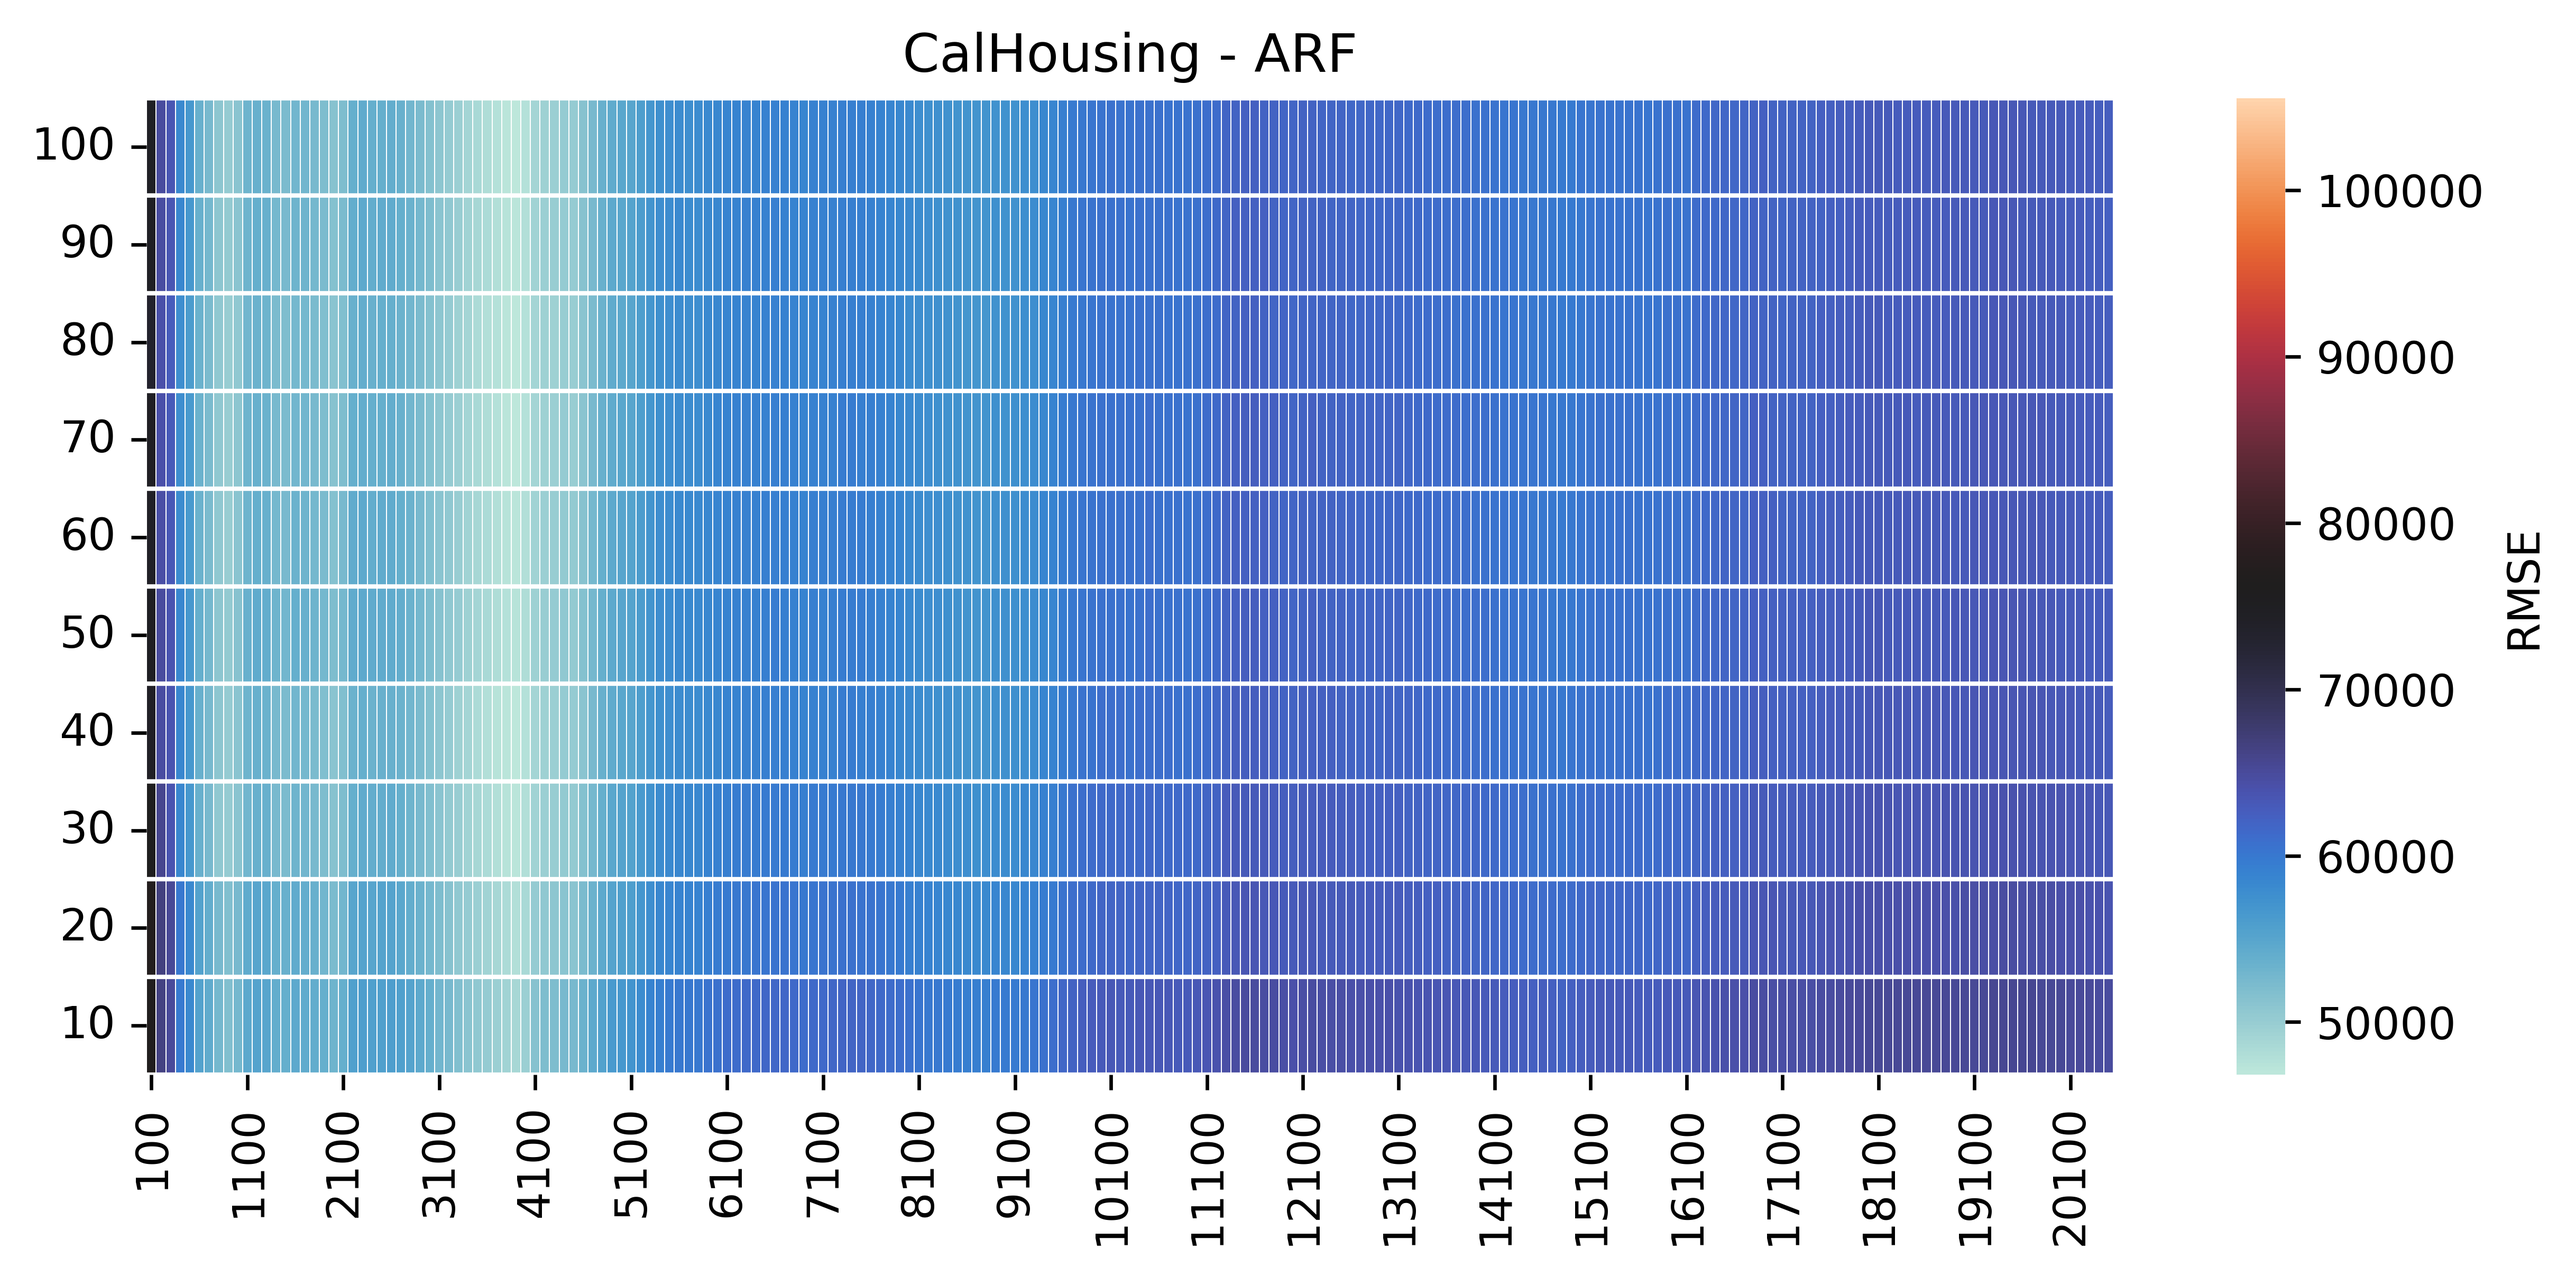
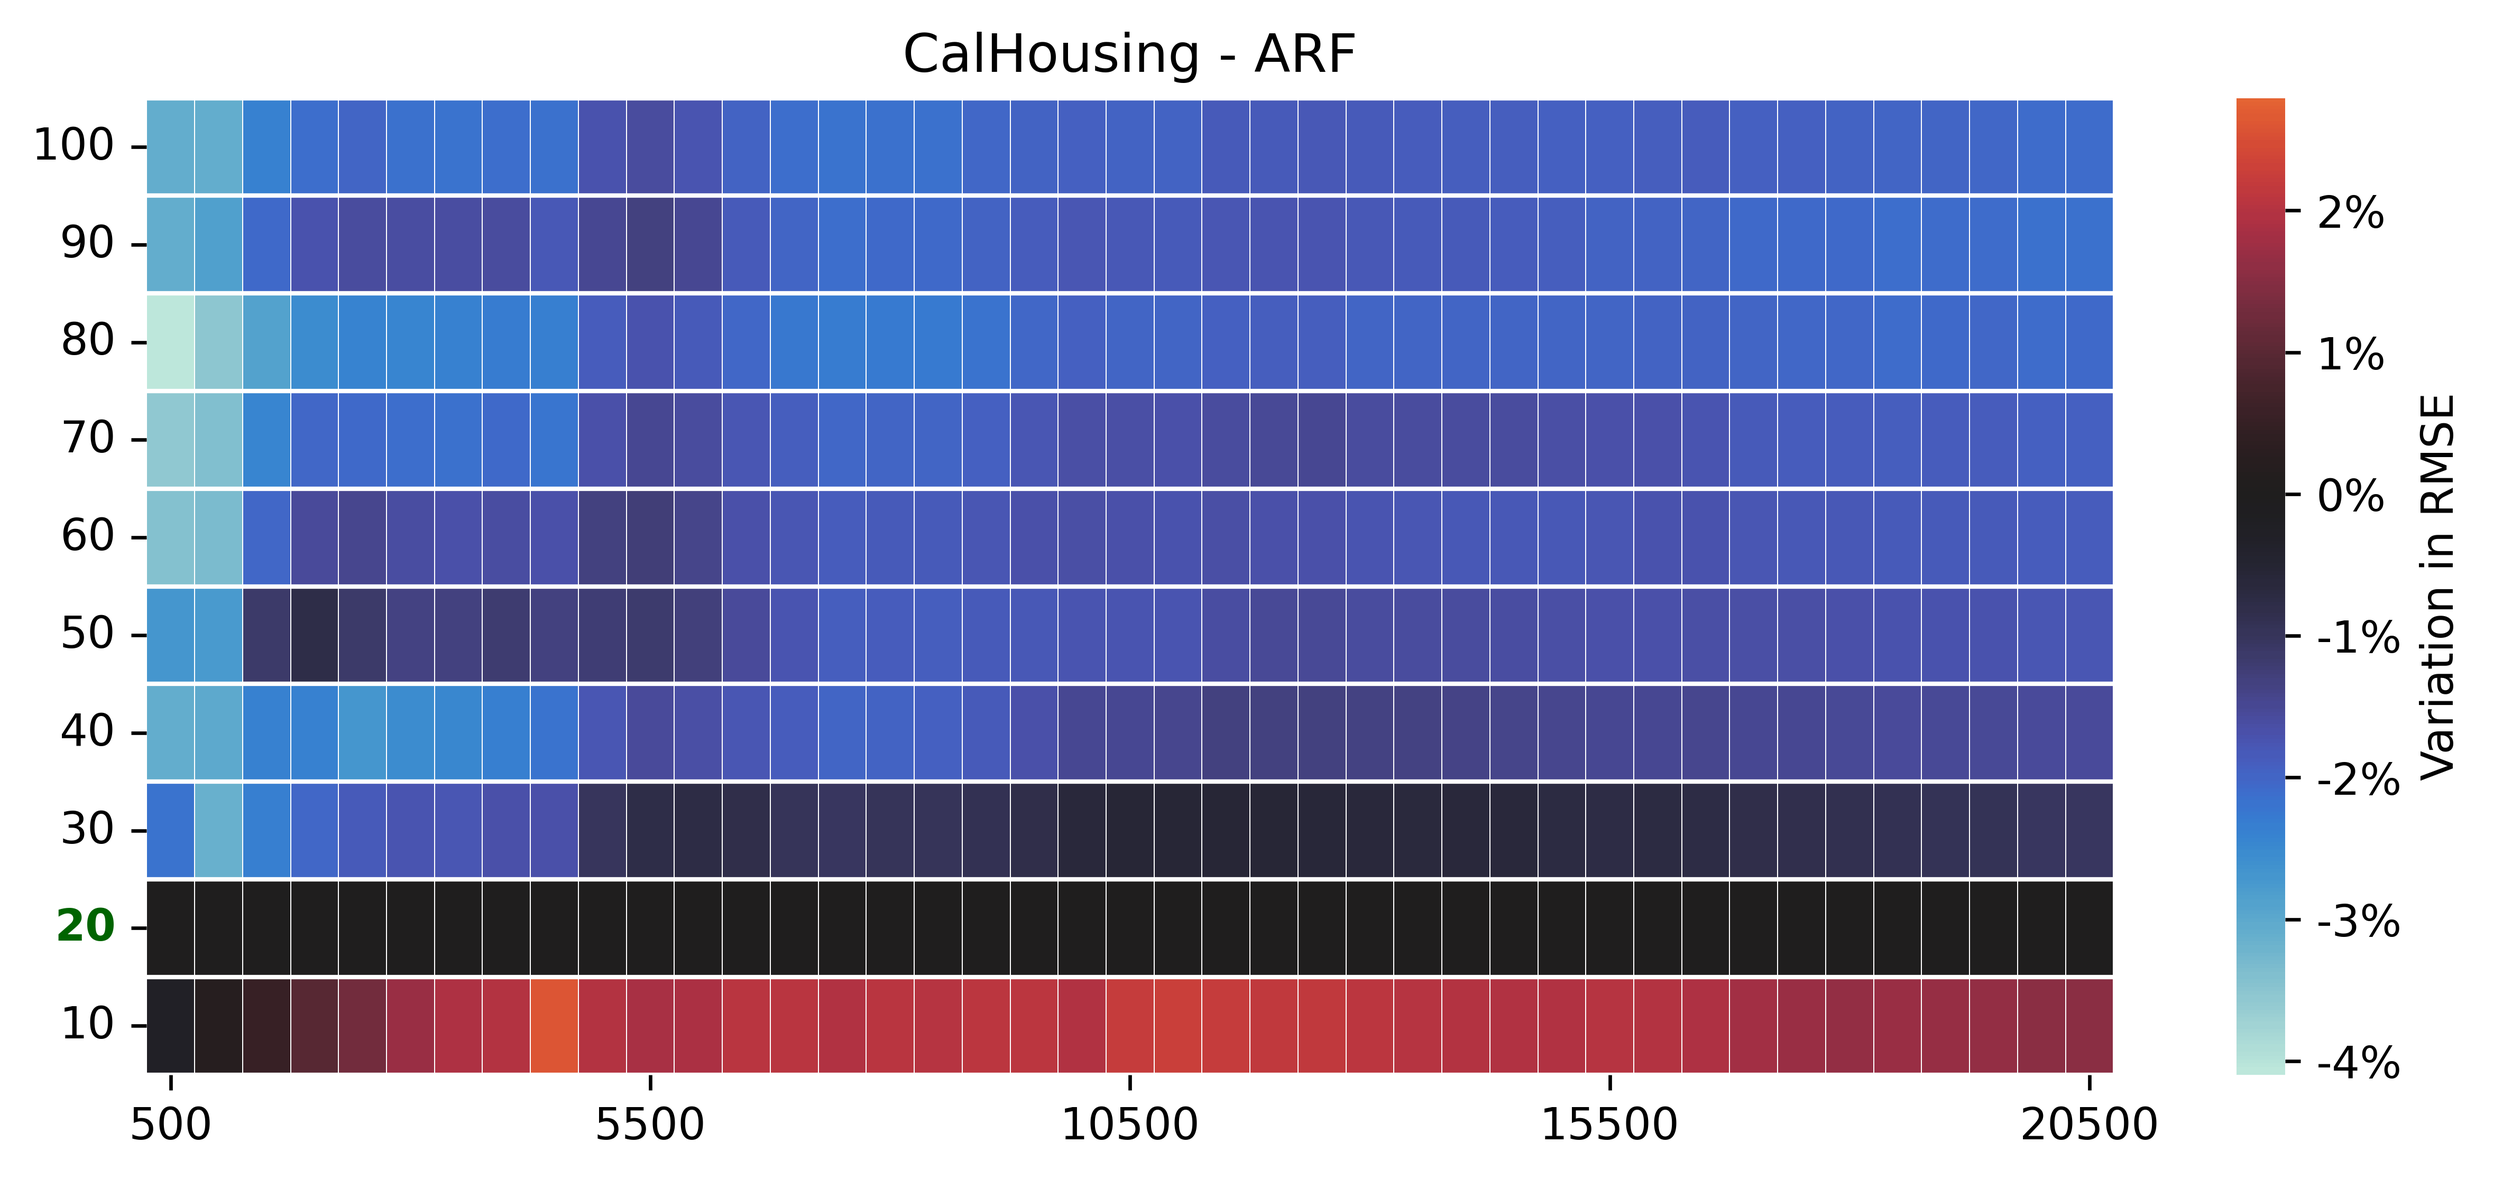
update heatmaps

diff --git a/src/plot_saturation_heatmaps.py b/src/plot_saturation_heatmaps.py
@@ -30,24 +30,30 @@ def plot_saturation_heatmap(dataset_name):
                 dmatrix = np.zeros((len(n_trees), len(m_log)))
             dmatrix[i, :] = m_log["RMSE"].values
         if m_log["n_samples"].values[-1] > 50000:
-            # Aggregate every 1000 instances
+            # Aggregate every 2000 instances
             agg = True
-            dmatrix = dmatrix.reshape(-1, dmatrix.shape[1] // 10, 10).mean(axis=2)
+            dmatrix = dmatrix.reshape(-1, dmatrix.shape[1] // 20, 20).mean(axis=2)
+        else:
+            # Aggregate every 500 instances
+            dmatrix = dmatrix.reshape(-1, dmatrix.shape[1] // 5, 5).mean(axis=2)
 
         dmatrix = pd.DataFrame(
             dmatrix,
             columns=[
-                100 * i for i in range(1, dmatrix.shape[1] + 1)
+                500 * i for i in range(1, dmatrix.shape[1] + 1)
             ] if not agg else [
-                1000 * i for i in range(1, dmatrix.shape[1] + 1)
+                2000 * i for i in range(1, dmatrix.shape[1] + 1)
             ]
         )
+
+        # Normalize data
+        dmatrix = (dmatrix.div(dmatrix.iloc[-2, :]) - 1) * 100
 
         return dmatrix
 
     model_matcher = {
         "ARF-abs": "ARF",
-        "XT": "XT"
+        "XT": "OXT"
     }
     plot_data = {}
 
@@ -70,14 +76,19 @@ def plot_saturation_heatmap(dataset_name):
         dmatrix = plot_data[model_id]
 
         fig, ax = plt.subplots(figsize=(10, 4), dpi=600)
-        mid = min_ + (max_ - min_) / 2
         ax = sns.heatmap(
             dmatrix, linewidth=0.05, yticklabels=list(reversed(n_trees)),
-            xticklabels=10, cbar_kws={"label": "RMSE"},
-            ax=ax, center=mid, vmin=min_, vmax=max_
+            xticklabels=10, cbar_kws={
+                "label": "Variation in RMSE",
+                "format": "%.0f%%"
+            },
+            ax=ax, center=0.0, vmin=min_, vmax=max_
         )
         for i in range(dmatrix.shape[0] + 1):
             ax.axhline(i, color='white', lw=1)
+
+        ax.yaxis.get_ticklabels()[-2].set_color("darkgreen")
+        ax.yaxis.get_ticklabels()[-2].set_weight("bold")
 
         ax.set_title(f"{DATASETS[dataset_name]} - {model_name}")
         # ax.tick_params(bottom=False)
